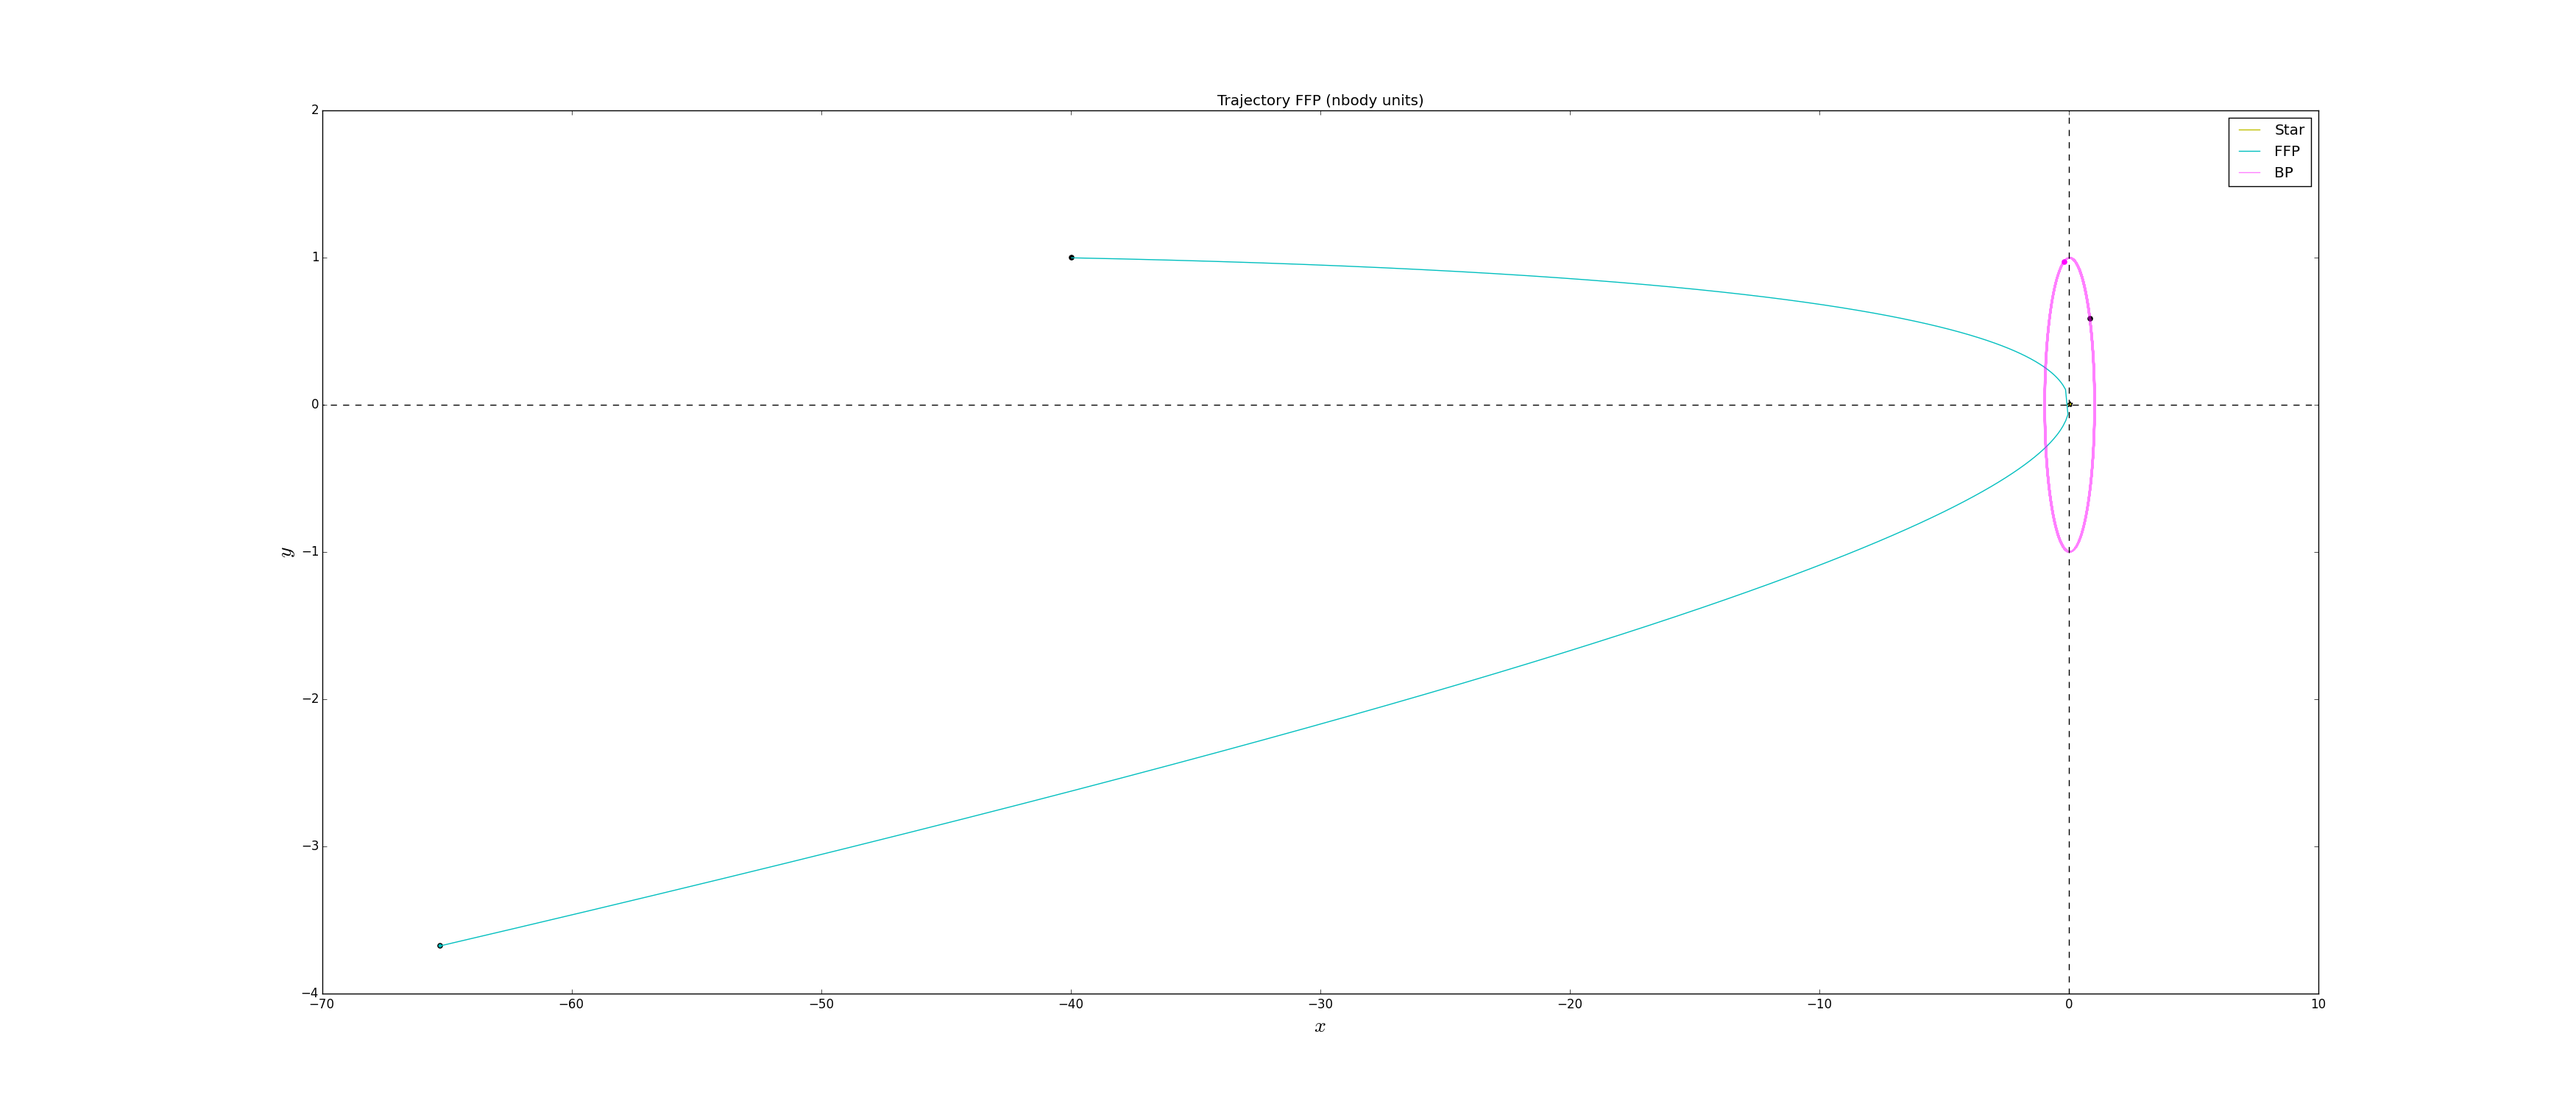
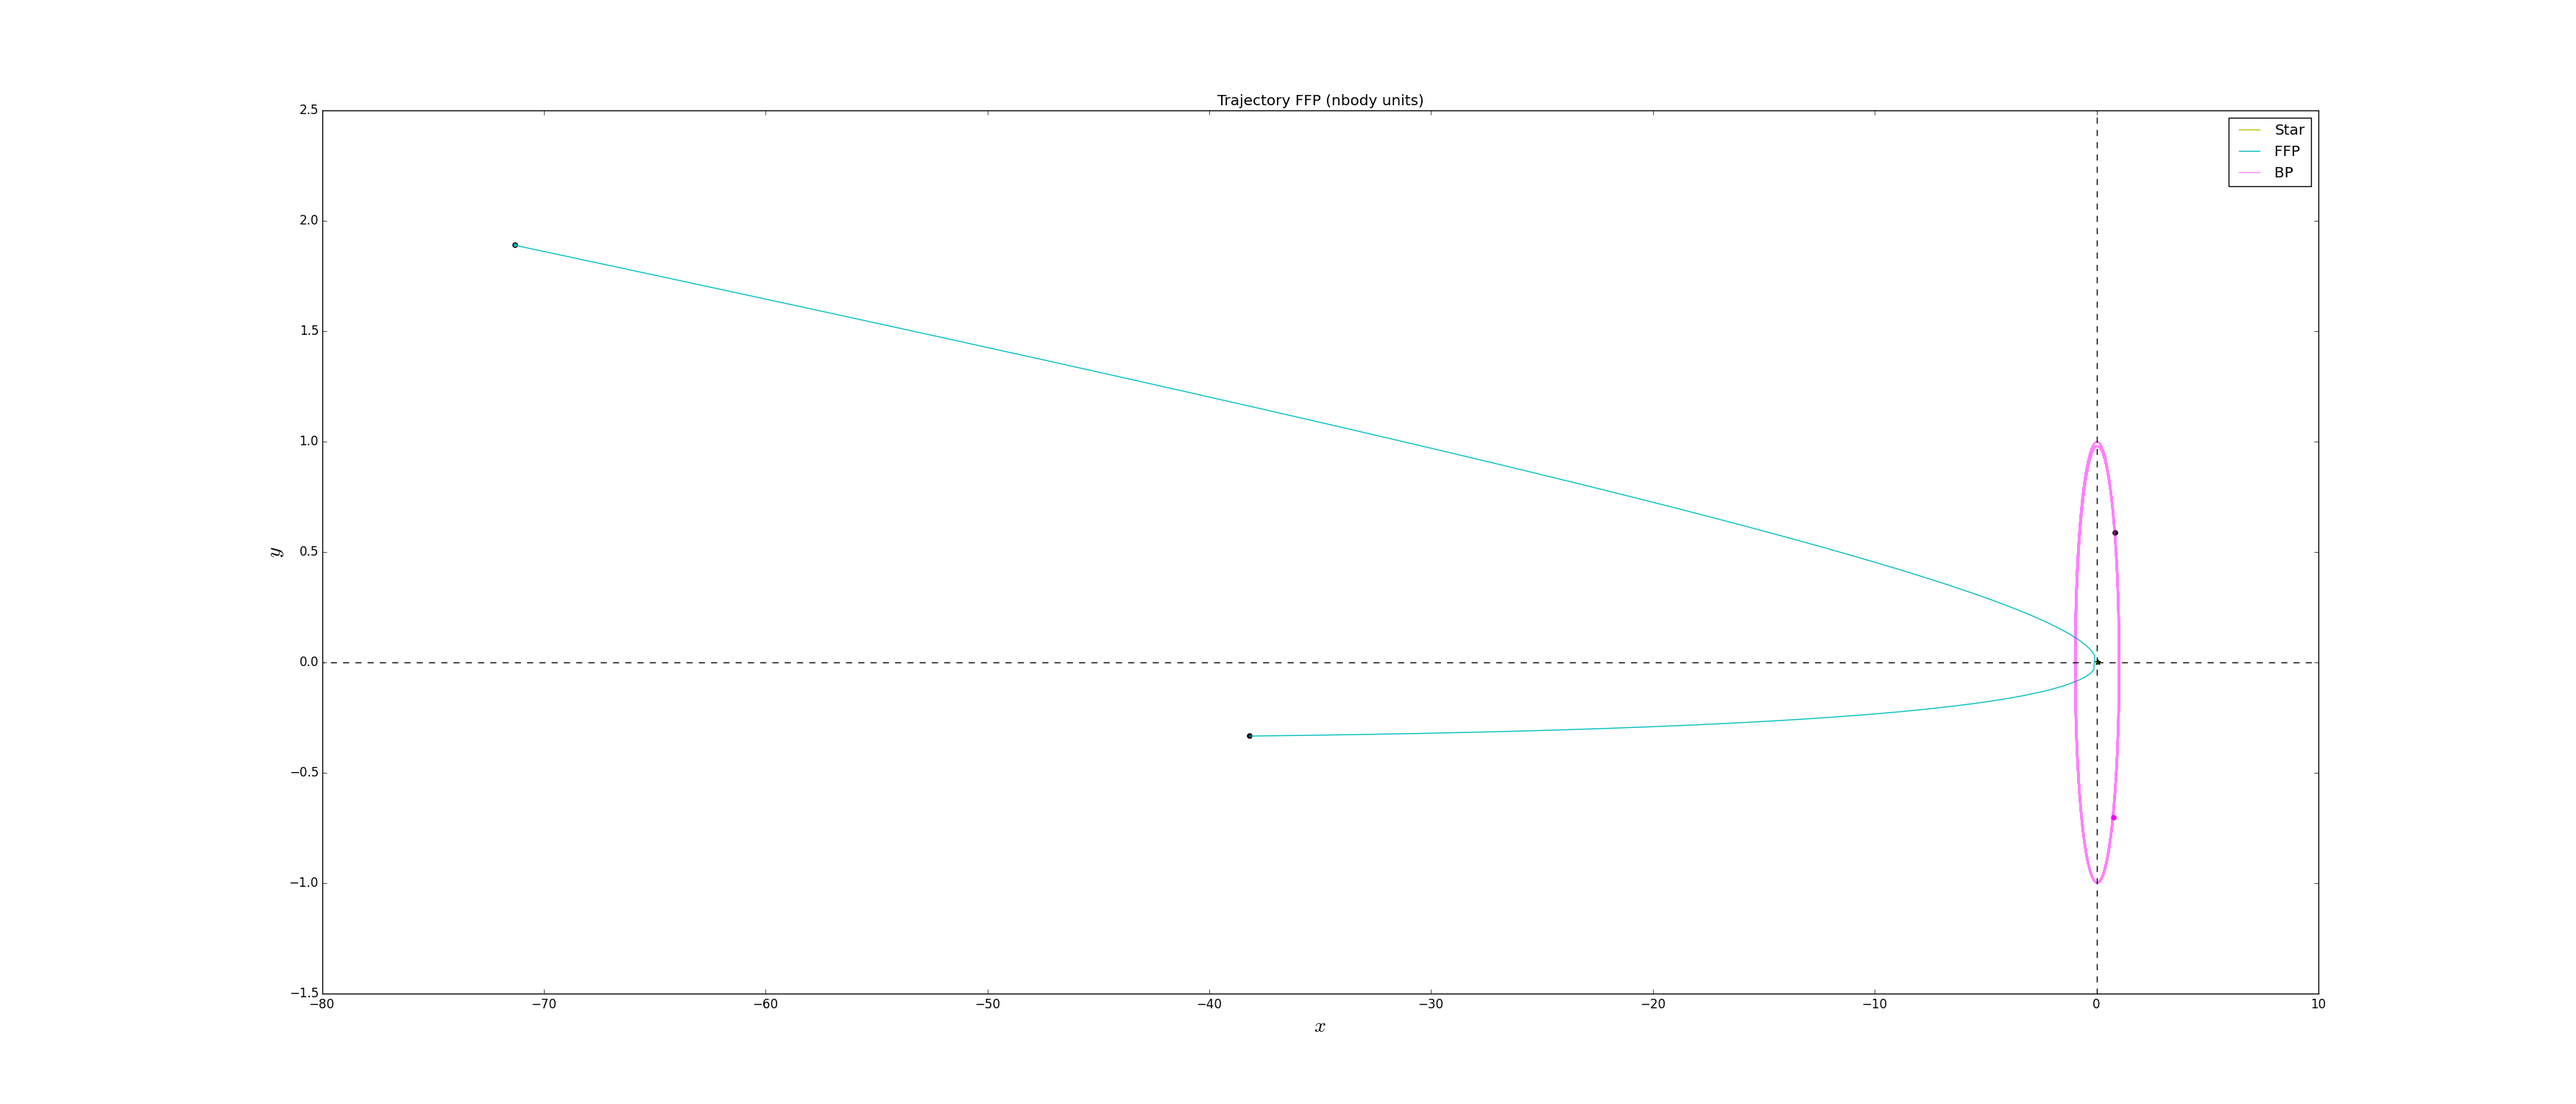
with new function

diff --git a/capture_ffp/capture_ffp.py b/capture_ffp/capture_ffp.py
@@ -39,32 +39,7 @@ def get_planets(m0, a_planets, m_planets, e_planets, phi=0.):
 
     return planets
 
-def get_ffp_in_orbit(m0, b_ffp, vinf_ffp, m_ffp, r_inf):
-    """
-    initialize attributes of the star and the ffp.
-    """
-
-    m0_and_ffp_in_orbit = Particles(2)
-
-    #Central star
-    m0_and_ffp_in_orbit[0].mass = m0
-    m0_and_ffp_in_orbit[0].position = (0,0,0) | nbody_system.length
-    m0_and_ffp_in_orbit[0].velocity = (0,0,0) | nbody_system.speed
-
-    #Free-floating planet
-
-    m0_and_ffp_in_orbit[1].mass = m_ffp
-    m0_and_ffp_in_orbit[1].x = -r_inf
-    m0_and_ffp_in_orbit[1].y = b_ffp
-    m0_and_ffp_in_orbit[1].z = 0. | nbody_system.length
-    m0_and_ffp_in_orbit[1].vx = vinf_ffp
-    m0_and_ffp_in_orbit[1].vy = 0. | nbody_system.speed
-    m0_and_ffp_in_orbit[1].vz = 0. | nbody_system.speed
-
-    return m0_and_ffp_in_orbit
-
-def get_ffp_in_orbit_2(m0, m, a, e, phi):
-
+def get_ffp_in_orbit(m0, m, a, e, phi):
     """
     initialize attributes of the star and the ffp.
     """
@@ -73,8 +48,8 @@ def get_ffp_in_orbit_2(m0, m, a, e, phi):
     star_ffp.position -= star_ffp[0].position
     star_ffp.velocity -= star_ffp[0].velocity
 
-    print star_ffp
     print 'v_inf_orb =',(star_ffp[1].vx**2+star_ffp[1].vy**2+star_ffp[1].vz**2).sqrt()
+    print star_ffp
 
     return star_ffp
 
@@ -300,7 +275,7 @@ def plot_orbital_elements(times,eccentricities,semimajoraxes,number_of_planets):
     savefig('orbitalelements.png')
     close()
 
-def convert_units(converter, t_end_p, m0_p, m_ffp_p, vinf_p, m_planets_p, a_planets_p, e_planets_p, n_steps_p, phi_p, b_p):
+def convert_units(converter, t_end_p, m0_p, m_ffp_p, m_planets_p, a_planets_p, e_planets_p, n_steps_p, phi_p, b_p):
 
     #time of integration in yr
     t_end = converter.to_nbody(t_end_p | units.yr)
@@ -310,9 +285,6 @@ def convert_units(converter, t_end_p, m0_p, m_ffp_p, vinf_p, m_planets_p, a_plan
 
     #mass of the FFP MJupiter
     m_ffp = converter.to_nbody(m_ffp_p | units.MJupiter)
-
-    #velocity of the FFP at a large distance (infinity) in km/s
-    vinf = converter.to_nbody(vinf_p | units.kms)
 
     #list of the masses of the bounded planets in MJupiter
     m_planets = converter.to_nbody(m_planets_p | units.MJupiter)
@@ -333,17 +305,18 @@ def convert_units(converter, t_end_p, m0_p, m_ffp_p, vinf_p, m_planets_p, a_plan
     b = converter.to_nbody(b_p | units.AU)
 
     #Set the velocity of FFP assuming parabolic orbit with respect to the star
+    r_inf = 40.*max(a_planets)
     mu = m0*m_ffp / (m0 + m_ffp)
-    ep_m0_ffp = ((1.0 | nbody_system.length)**3 * nbody_system.mass**-1 * nbody_system.time**-2)*m0*m_ffp / ((b**2 + r_inf**2).sqrt())
+    ep_m0_ffp = (1.0 | nbody_system.length**3 * nbody_system.time**-2 * nbody_system.mass**-1)*m0*m_ffp / ((b**2 + r_inf**2).sqrt())
     vx_ffp = (2.*ep_m0_ffp/mu).sqrt()
     print 'v_inf_theo =',vx_ffp
 
-    return t_end, m0, m_ffp, vinf, m_planets, a_planets, e_planets, n_steps, phi, b
+    return t_end, m0, m_ffp, m_planets, a_planets, e_planets, n_steps, phi, b
 
-def run_capture(t_end_p=650.0, m0_p=1.0, m_ffp_p=1.0, vinf_p=3.0, m_planets_p=[1.0], a_planets_p=[5.0], e_planets_p=[0.0], n_steps_p=10000, phi_p=0.0, b_p=5.0):
+def run_capture(t_end_p=650.0, m0_p=1.0, m_ffp_p=1.0, m_planets_p=[1.0], a_planets_p=[5.0], e_planets_p=[0.0], n_steps_p=10000, phi_p=0.0, b_p=5.0):
 
     """
-    Units: t_end(yr), m0(MSun), m_ffp(MJupiter), vinf(kms), m_planets(MJupiter), a_planets(AU), e_planets(None), n_steps(None), phi(degrees), b(AU)
+    Units: t_end(yr), m0(MSun), m_ffp(MJupiter), m_planets(MJupiter), a_planets(AU), e_planets(None), n_steps(None), phi(degrees), b(AU)
     """
 
     #Time starts
@@ -353,7 +326,7 @@ def run_capture(t_end_p=650.0, m0_p=1.0, m_ffp_p=1.0, vinf_p=3.0, m_planets_p=[1
     converter = nbody_system.nbody_to_si(1 | units.MSun,  5 | units.AU)
 
     #Conversion of units
-    t_end, m0, m_ffp, vinf, m_planets, a_planets, e_planets, n_steps, phi, b = convert_units(converter, t_end_p, m0_p, m_ffp_p, vinf_p, m_planets_p, a_planets_p, e_planets_p, n_steps_p, phi_p, b_p)
+    t_end, m0, m_ffp, m_planets, a_planets, e_planets, n_steps, phi, b = convert_units(converter, t_end_p, m0_p, m_ffp_p, m_planets_p, a_planets_p, e_planets_p, n_steps_p, phi_p, b_p)
 
     #Initialize planets
     planets = get_planets(m0,a_planets,m_planets,e_planets,phi)
@@ -364,16 +337,20 @@ def run_capture(t_end_p=650.0, m0_p=1.0, m_ffp_p=1.0, vinf_p=3.0, m_planets_p=[1
     r_inf = 40.*max(a_planets)
 
     #Initialize star and FFP
-    a_ffp = r_inf
-    b_ffp = b
-    e_ffp = (b_ffp/a_ffp)**2 + 1
-
+    # a_ffp = -r_inf**2
+    # b_ffp = -b
+    # e_ffp = (b_ffp/a_ffp)**2 + 1
+    # phi_ffp = -176.5
     # phi_ffp = 180 + numpy.degrees(math.atan(r_0/r_inf))
-    print 'e_ffp =',e_ffp
+
+    e_ffp = 1.000001
+    a_ffp = -(r_inf**2+(b**2)/(e_ffp**2-1)).sqrt()
+    phi_ffp = -179.5
+
+    print 'a_ffp =',a_ffp
 
     #Set the parabolic orbit of the ffp around the star
-    #star_and_ffp_in_orbit = get_ffp_in_orbit_2(m0, m_ffp, a_ffp, e_ffp, phi_ffp)
-    star_and_ffp_in_orbit = get_ffp_in_orbit(m0,b,vinf,m_ffp,r_inf)
+    star_and_ffp_in_orbit = get_ffp_in_orbit(m0, m_ffp, a_ffp, e_ffp, phi_ffp)
 
     #Particle superset: star, FFP, planets
     bodies = ParticlesSuperset([star_and_ffp_in_orbit, planets])
@@ -382,7 +359,7 @@ def run_capture(t_end_p=650.0, m0_p=1.0, m_ffp_p=1.0, vinf_p=3.0, m_planets_p=[1
     x,y,times,energies,eccentricities,semimajoraxes = evolve_gravity(bodies,number_of_planets,converter,t_end,n_steps)
 
     plot_trajectory(x,y,number_of_planets)
-    #plot_energy(times, energies)
+    plot_energy(times, energies)
     #plot_orbital_elements(times,eccentricities,semimajoraxes,number_of_planets)
 
     print '\nTime:', time.time()-start_time, 'seconds.'

diff --git a/capture_ffp/run_code.py b/capture_ffp/run_code.py
@@ -3,14 +3,13 @@ import capture_ffp
 t_end = 650.0 #yr
 m0 = 1.0 #MSun
 m_ffp = 1.0 #MJupiter
-vinf = 3.0 #kms
 m_planets = [1.0] #MJupiter
 a_planets = [5.0] #AU
 e_planets = [0.0]
 # m_planets = [1.0,2.0] #MJupiter
 # a_planets = [5.0,8.0] #AU
 # e_planets = [0.0,0.0]
-n_steps = 10000
+n_steps = 15000
 
 bs = [5.0] #AU
 phis = [360*0.1] #degrees
@@ -20,7 +19,6 @@ for b in bs:
         capture_ffp.run_capture(t_end_p=t_end,
                                 m0_p=m0,
                                 m_ffp_p=m_ffp,
-                                vinf_p=vinf,
                                 m_planets_p=m_planets,
                                 a_planets_p=a_planets,
                                 e_planets_p=e_planets,
